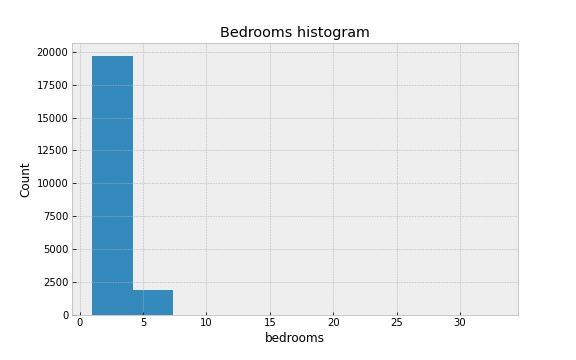
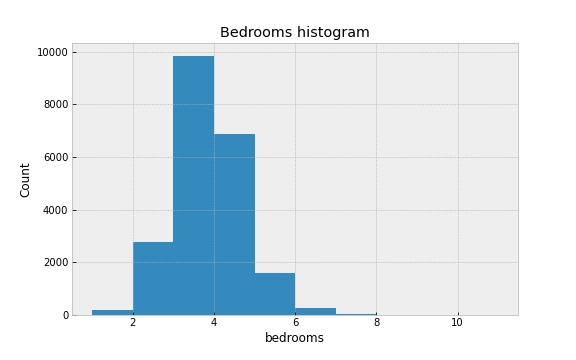
some minor updates to the notebooks and images

diff --git a/README.md b/README.md
@@ -1,4 +1,4 @@
-# Unsung real estate agency project
+# Unsung Real Estate Agency Project
 _by Nick P. Kimani_
 
 ## Business problem
@@ -62,4 +62,4 @@ Then I did min_max scaling on home_age and log transformation on sqft_living and
 ## Results
 The price distribution was: ![Price distribution](https://user-images.githubusercontent.com/104377216/177053873-f2ba0491-5226-4c6a-bdd0-852bb96f2e4b.jpg)
 
-sqft_living and sqft_lot final distribution afte transformation was: 
+home_age, sqft_living and sqft_lot final distribution before transformation was: 
